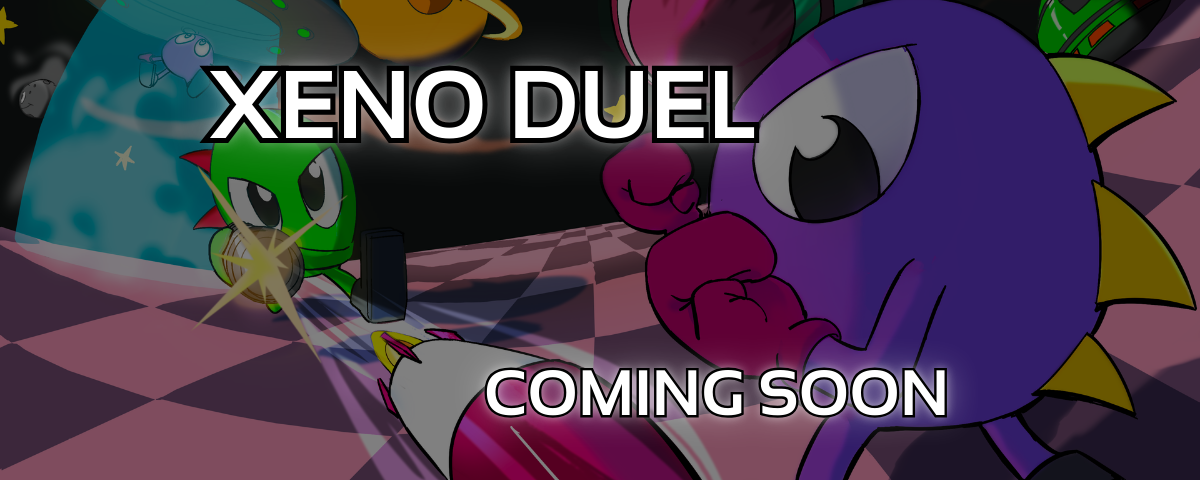
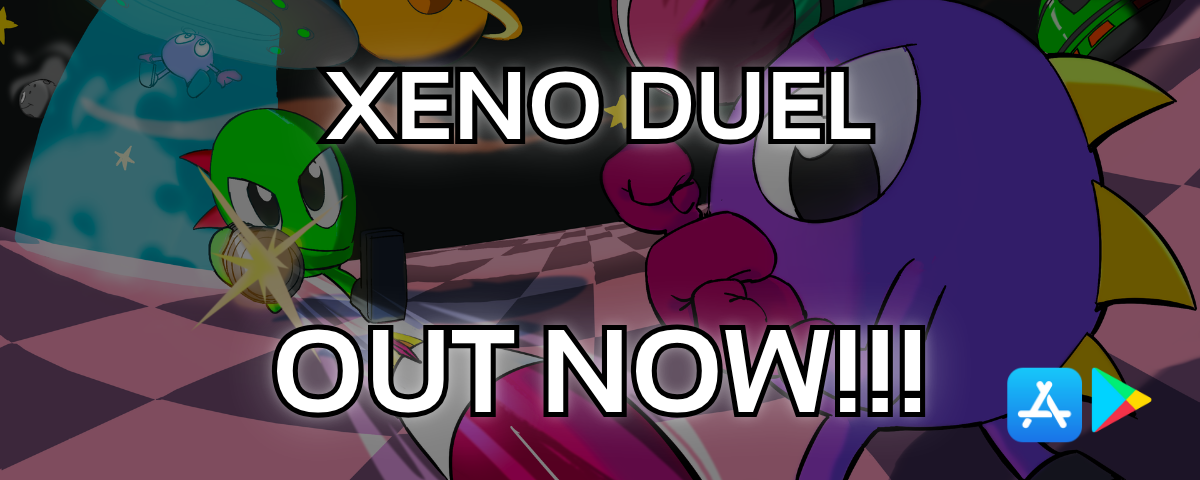
2025/06/05

Changed region(s): [[0.2158, 0.6562, 0.8017, 0.9062], [0.1542, 0.0938, 0.74, 0.3438], [0.8325, 0.75, 0.9558, 0.9375]]

diff --git a/index.js b/index.js
@@ -229,30 +229,30 @@ function gameDivUpdate(gameName) {
         
         gameDivLeft.append(getTags(gameName));        
         gameDivLeft.append(getDate(gameName));        
-        gameDivLeft.append(getDescription(gameName));  
-
-        gameDivRight.append(getTeamMembers(gameName));        
+        gameDivLeft.append(getDescription(gameName));
+        gameDivLeft.append(getTeamMembers(gameName));
+                
         gameDivRight.append(getScreenshots(gameName));        
         gameDivRight.append(getPlatformIcons(gameName));
 
         let h3Font = '';
-        let h3Size = 0.8;
+        let h3Size = 1.15;
         
         switch (gameName) {
             case ("xeno_duel"): 
                 gameDiv.style.backgroundImage = `url("images/game_bgs/xeno_duel_bg.png")`;  
                 h3Font = 'VenusRising';
-                h3Size = 0.8;
+                h3Size = 1.15;
                 break;
             case ("soleil_survivor"): 
                 gameDiv.style.backgroundImage = `url("images/game_bgs/soleil_survivor_bg.png")`; 
                 h3Font = 'Cryptik';
-                h3Size = 1.15;
+                h3Size = 1.5;
                 break;
             case ("descendant"): 
                 gameDiv.style.backgroundImage = `url("images/game_bgs/descendant_bg.png")`; 
                 h3Font = 'Mordred';
-                h3Size = 1.15;
+                h3Size = 1.25;
                 break;
             case ("scrabbleman"): 
                 gameDiv.style.backgroundImage = `url("images/game_bgs/scrabbleman_bg.png")`; 
@@ -275,22 +275,23 @@ function getTitle(gameName) {
         case ("xeno_duel"):
             title.innerHTML = `<h2>XENO DUEL</h2>`;
             title.style.fontFamily = `VenusRising`;
-            title.style.fontSize = `2vw`;
+            // title.style.fontSize = `5vw`;
+            // title.style.color = `#ff0000`;
             break;
         case ("soleil_survivor"):
             title.innerHTML = `<h2>SOLEIL SURVIVOR</h2>`;
             title.style.fontFamily = `Cryptik`;
-            title.style.fontSize = `2.5vw`;
+            title.style.fontSize = `2.5vh`;
             break;
         case ("descendant"):
             title.innerHTML = `<h2>DESCENDANT</h2>`;
             title.style.fontFamily = `Mordred`;
-            title.style.fontSize = `2.5vw`;
+            title.style.fontSize = `2.5vh`;
             break;
         case ("scrabbleman"):
             title.innerHTML = `<h2>SCRABBLEMAN</h2>`;
             title.style.fontFamily = `Arial`;
-            title.style.fontSize = `2.5vw`;
+            title.style.fontSize = `2.5vh`;
             break;
     }
     return title;
@@ -335,7 +336,7 @@ function getDate(gameName) {
     row.innerHTML = `<h3>PUBLISHED:</h3>`;
     switch (gameName) {
         case ("xeno_duel"):
-            row.innerHTML = `<h3>COMING SOON!</h3>`;
+            row.innerHTML += `<h4>June 2025</h4>`;
             // date.style.fontFamily = `VenusRising`;
             // date.style.fontSize = `1.5vw`;
             break;
@@ -460,7 +461,11 @@ function getPlatformIcons(gameName) {
 
     switch (gameName) {
         case ("xeno_duel"):
-            platforms.innerHTML = ``;
+            platforms.innerHTML += `
+                <a href = "https://play.google.com/store/apps/details?id=com.maxgamestudio.xenoduel" target="_blank" title="Play on Android"> <img class="gameDivPlatform" src="images/social_icons/logo_android.png"> </a>
+                <a href = "https://apps.apple.com/us/app/xeno-duel/id6746754543" target="_blank" title="Play on Apple"> <img class="gameDivPlatform" src="images/social_icons/logo_apple.png"> </a>
+                <a href = "https://ultrahammergames.itch.io/xeno-duel" target="_blank" title="itch.io"> <img class="gameDivPlatform" src="images/social_icons/logo_itchio.png"> </a>
+            `
             break;
         case ("soleil_survivor"):
             platforms.innerHTML += `

diff --git a/index.html b/index.html
@@ -18,6 +18,9 @@
             <div class="headerLeftBehind"></div> 
             <div class="headerLeft"></div> <div class="headerRight"></div> <div class="headerBottom"></div> <div class="headerLeftBottom"></div> <div class="headerRightBottom"></div>
             <img class="headerLogo" src="images/logo.png">
+            <div class="headerText">
+                <h3>Making games with imagination!</h3>
+            </div>
             <img class="headerEmail" src="images/social_icons/logo_email.png" title="Send an email"> 
         </div>
         <div class="bodyDivMiddle">
@@ -51,7 +54,7 @@
                 <div class="gamesCatalogueViewport">
                     <div class="gamesCatalogueWrapper">
                         <img class="gamesCatalogueItem" src="images/game_covers/xeno_duel_cover.png" 
-                            onclick="gameCatalogueButton('xeno_duel')" data-genres="Strategy" data-players="Multiplayer" data-platforms="ios, Android">
+                            onclick="gameCatalogueButton('xeno_duel')" data-genres="Strategy" data-players="Multiplayer" data-platforms="ios, Android, itch.io">
                         <img class="gamesCatalogueItem" src="images/game_covers/soleil_survivor_cover.png" 
                             onclick="gameCatalogueButton('soleil_survivor')" data-genres="3D, Action" data-players="Singleplayer" data-platforms="Steam, itch.io">
                         <img class="gamesCatalogueItem" src="images/game_covers/descendant_cover.png" 
@@ -93,13 +96,13 @@
                 <div class="gameDivScrollPoint" id="gameDivScrollPoint"></div>
                 <div class="gameDivTitle" id="gameDivTitle"> </div>
                 <div class="gameDivHalf" id="gameDivLeft" style="width: 35%;"> </div>
-                <div class="gameDivHalf" id="gameDivRight" style="width: 35%;"> </div>
+                <div class="gameDivHalf" id="gameDivRight" style="width: 35%; padding-right: 0.75%;"> </div>
                 <div class="bannerDivLeft" style="width: 7.5%;"></div>
                 <div class="bannerDivRight" style="width: 7.5%; background: linear-gradient(to right, transparent 0%, #99ccff 60%);"></div> 
             </div>
 
             <div class="aboutDiv">
-                <h1 style="padding-top: 25px;"> WHAT IS ULTRA HAMMER GAMES? </h1>
+                <h1> WHAT IS ULTRA HAMMER GAMES? </h1>
                 <p> 
                     Founded in Ontario, Canada, we are an independent studio that specializes in small-scale, replayable PC games.
                     With an emphasis on passion and creativity, we aim to shine a long overdue spotlight on talented independent Canadian developers.

diff --git a/gameDiv.css b/gameDiv.css
@@ -8,7 +8,7 @@
 	margin-top: 25px;
     margin-bottom: 0px;
     padding-top: 15px;
-    padding-bottom: 15px;
+	padding-bottom: 15px;
 }
 
 .gameDiv::after {
@@ -19,16 +19,16 @@
 
 .gameDiv p {
 	margin-left: 2%;
+	font-size: 0.9em;
 }
 
 .gameDiv h2 {
 	margin-top: 0px;
 	margin-bottom: 0px;
 	margin-left: 2.5%;
-	margin-left: 2.5%;
 	width: 100%;
-	font-size: clamp(1rem, 5vw, 4rem);
-	margin-left: 2%;
+	font-size: clamp(1.5rem, 6vw + 1rem, 4rem);
+	padding-bottom: 1vh;
 }
 
 .gameDivScrollPoint {
@@ -46,19 +46,20 @@
 	margin: auto; 
 	float: left; 
 	min-width: 315px;
-    font-size: 1.5vw;
+    /* font-size: 1.5vw; */
 	margin-left: 5vw;
+	padding-left: 0.75%;
 }
 
 .gameDivHalf p {
-    color: #bbb;
-	font-size: 0.8em;
-	padding-top: 1.5vw;
-	margin-left: 0.5vw;
+    color: #ccc;
+	/* font-size: 1vw; */
+	padding-top: 1.5vh;
+	padding-bottom: 1.5vh;
+	margin-left: 0.65vh;
 }
 
 .gameDivHalf h3 {
-	font-size: 0.8em;
     margin-top: 1.5%;
     margin-bottom: 0px;
 	margin-left: 0px;
@@ -66,21 +67,22 @@
 
 .gameDivHalf h4 {
 	font-family: 'ComicHelvetic';
-    margin-left: 0.75vw;
-    margin-top: 0.75vw;
+    margin-left: 0.75vh;
+    margin-top: 1.15vh;
     margin-bottom: 0px;
-    font-size: 0.75em;
+    /* font-size: 0.8em; */
+    font-size: 1em;
 }
 
 .gameDivHalf ul {
 	margin-top: 0.5vw;
-	padding-left: 2vw;
 	list-style-type: "👽";
+	padding-right: 1vw;
 }
 
 .gameDivHalf li {
 	font-family: "ComicHelvetic";
-	font-size: 0.7em;
+	font-size: 0.9em;
 	text-decoration: none;
 }
 
@@ -95,6 +97,10 @@
     display: flex;
     align-items: center;
 }
+
+/* .gameDivHalfRow p {
+	background-color: green;
+} */
 
 .gameDivScreenshotSection {
 	width: 100%;
@@ -151,7 +157,7 @@
 }
 
 .gameDivPlatform {
-	width: 8%;
+	width: 12%;
 	min-width: 3.5vw;
 	padding-left: 0.25vw;
 	padding-right: 0.5vw;

diff --git a/stylesheet.css b/stylesheet.css
@@ -184,12 +184,12 @@ h3 {
     width: 100%;
     overflow: hidden;
 	margin-bottom: 10px;
-	padding-bottom: 25px;
 }
 
 .gamesCatalogueViewport {
     width: 85%;
     overflow-x: hidden;
+	padding-bottom: 25px;
 }
 
 .gamesCatalogueWrapper {
@@ -200,7 +200,7 @@ h3 {
 .gamesCatalogueItem {
     width: 30%;
     margin: 0 0.5%;
-    box-shadow: 6px 6px;
+    box-shadow: 5px 5px;
     cursor: pointer;
     border: 2px solid white;
     transition: width 0.5s ease, opacity 0.5s ease;
@@ -209,7 +209,7 @@ h3 {
 
 .gamesCatalogueItem:hover {
 	border: 3px solid yellow;
-    box-shadow: 7.5px 7.5px;
+    box-shadow: 6.5px 6.5px;
 }
 
 .gamesCatalogueItem.shrink {

diff --git a/headerAndFooter.css b/headerAndFooter.css
@@ -19,6 +19,25 @@
 	min-height: 15%;
 }
 
+.headerText {
+	display: flex;
+  	align-items: flex-end;
+  	justify-content: flex-start;
+  	height: 100px;
+  	min-height: 15%;
+  	padding-left: 10px;
+	margin-right: 5em;
+}
+
+.headerText h3 {
+	margin-left: 0px;
+	color: black;
+	margin-bottom: 0px;
+	font-size: clamp(0.5rem, 1.25vw + 1rem, 3rem);
+	font-family: MessingLettern;
+	font-weight: normal;
+}
+
 .headerEmail {
 	width: 5%;
 	min-width: 35px;
